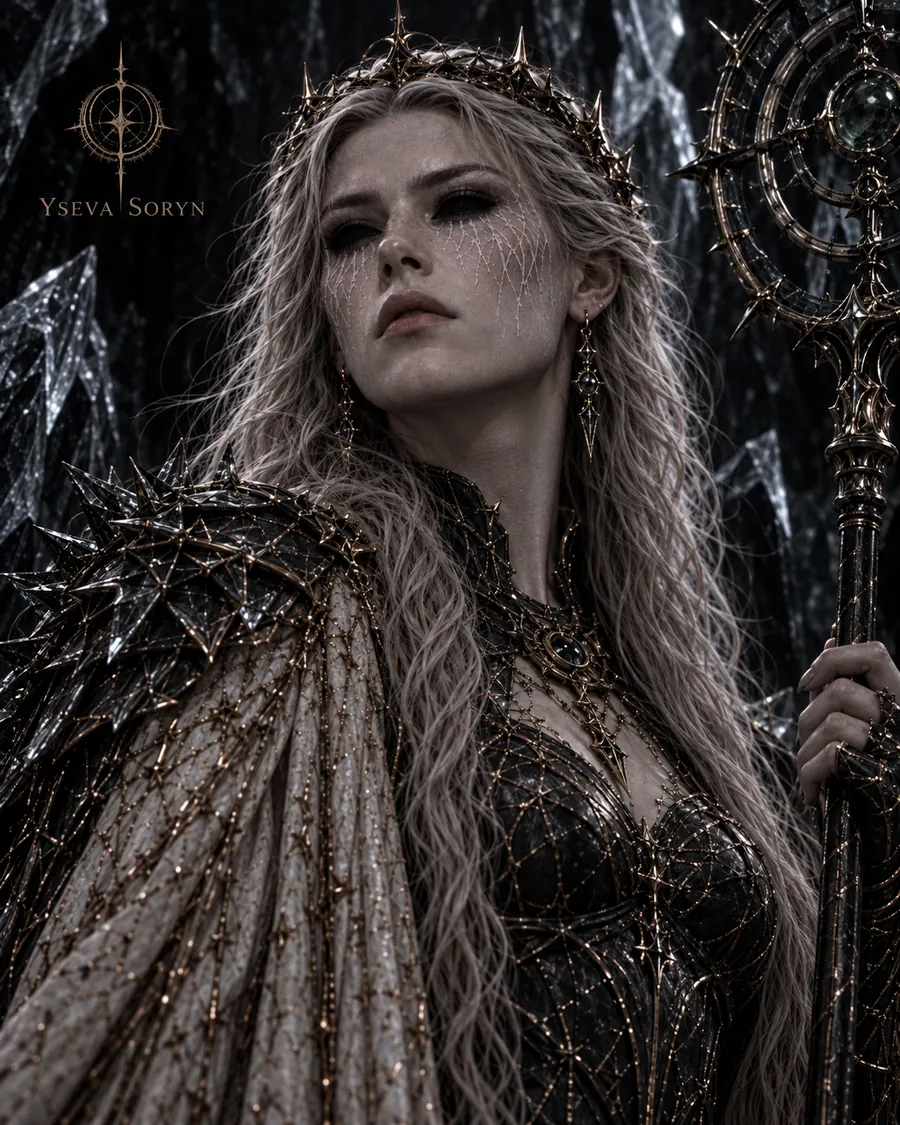
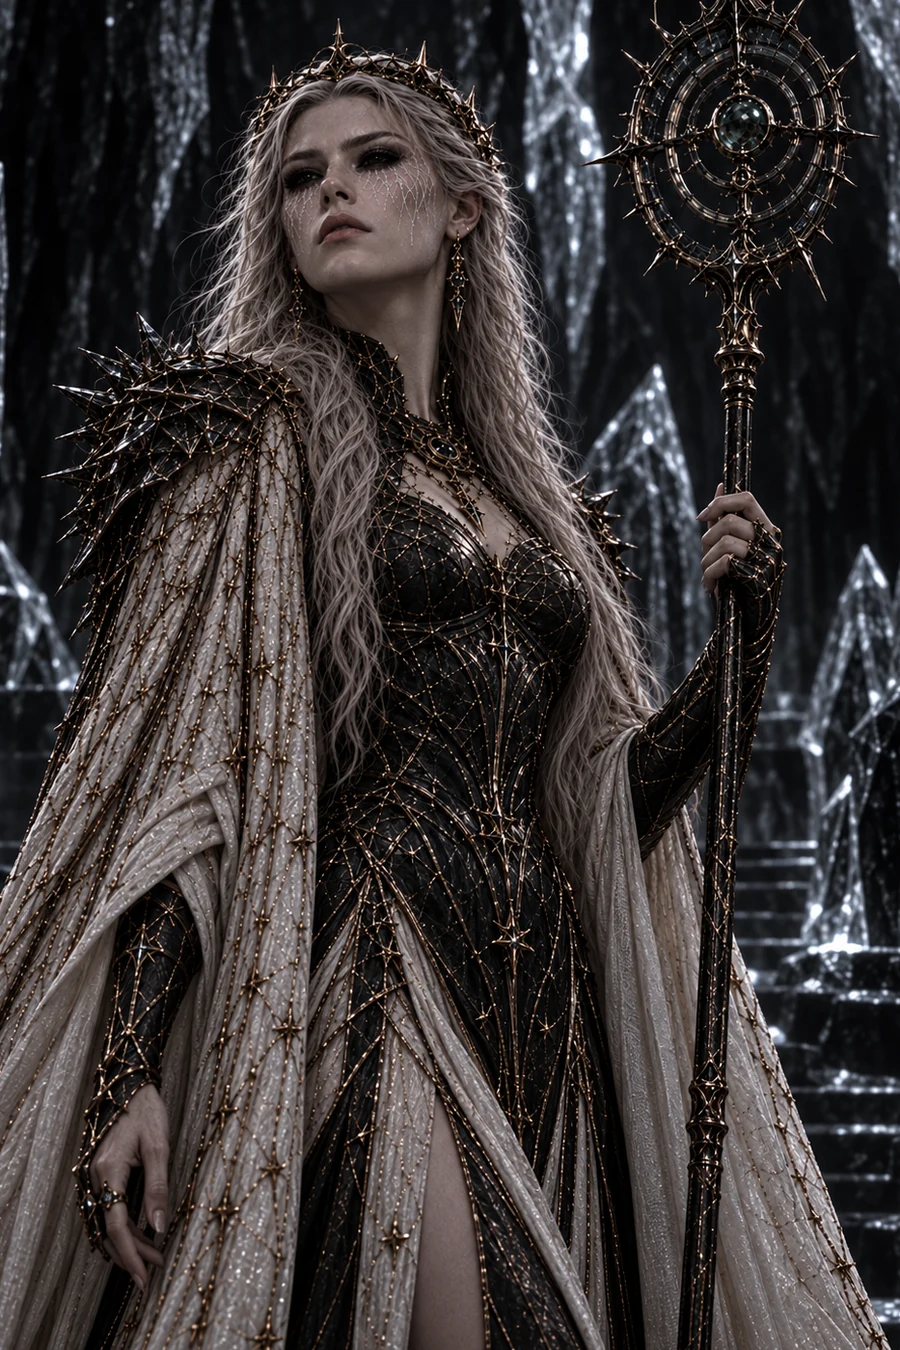
Retratos nuevos de los Soryn
Las tres versiones nuevas, a cuerpo entero y con el mismo encuadre que el resto
(cara al 15% del alto). Identificados comparando con los publicados: el brazo
cicatrizado y el carmesí son Hastir, la corona y la capa clara Aldren, el cetro
Yseva.

Yseva va al 12,5% en vez del 15%: con el encuadre normal se le salía el cetro
del disco astronómico, que es lo que la identifica como La Astrónoma de la
Guerra.

Hastir llegó con los ojos normales; se le aplicó el negro total como a los otros
dos, rellenando solo el interior del contorno ocular para no tocar párpados ni
pestañas.

diff --git a/content.js b/content.js
@@ -38,9 +38,9 @@ window.BOOK_DATA = {
     { id: "daren", name: "Daren de Vries", file: "assets/personajes/daren-de-vries.webp", w: 900, h: 1350, unlock: 1, section: "cam17" },
     { id: "elias", name: "Elías Sevrin", file: "assets/personajes/elias-sevrin.webp", w: 900, h: 1350, unlock: 2, section: "cam17" },
     { id: "zaira", name: "Zaira", file: "assets/personajes/zaira.webp", w: 900, h: 1349, unlock: 20, section: "fulgur" },
-    { id: "aldren", name: "Aldren Soryn", epithet: "El Heredero de la Luna Bélica", file: "assets/personajes/aldren-soryn.webp", w: 900, h: 1195, unlock: 23, section: "eternum" },
-    { id: "yseva", name: "Yseva Soryn", epithet: "La Astrónoma de la Guerra", file: "assets/personajes/yseva-soryn.webp", w: 900, h: 1125, unlock: 31, section: "eternum" },
-    { id: "hastir", name: "Hastir Soryn", epithet: "La Garra Carmesí", file: "assets/personajes/hastir-soryn.webp", w: 900, h: 1174, unlock: 31, section: "eternum" },
+    { id: "aldren", name: "Aldren Soryn", epithet: "El Heredero de la Luna Bélica", file: "assets/personajes/aldren-soryn.webp", w: 900, h: 1350, unlock: 23, section: "eternum" },
+    { id: "yseva", name: "Yseva Soryn", epithet: "La Astrónoma de la Guerra", file: "assets/personajes/yseva-soryn.webp", w: 900, h: 1350, unlock: 31, section: "eternum" },
+    { id: "hastir", name: "Hastir Soryn", epithet: "La Garra Carmesí", file: "assets/personajes/hastir-soryn.webp", w: 900, h: 1350, unlock: 31, section: "eternum" },
     { id: "rask", name: "Rask", file: "assets/personajes/rask.webp", w: 900, h: 1350, unlock: 25, section: "assum" },
     { id: "hal", name: "Hal'Verkan", file: "assets/personajes/hal-verkan.webp", w: 900, h: 1350, unlock: 30, section: "assum" },
     { id: "dravik", name: "Dra'Vik", file: "assets/personajes/dravik.webp", w: 900, h: 1350, unlock: 30, section: "assum" },

diff --git a/sw.js b/sw.js
@@ -1,6 +1,6 @@
 // REGLA (heredada del Libro I): todo cambio a index.html, styles.css, content.js,
 // app.js o nieve.js exige subir SHELL_CACHE antes de publicar.
-const SHELL_CACHE = "el-ciclo-inmovil-libro2-shell-v22";
+const SHELL_CACHE = "el-ciclo-inmovil-libro2-shell-v23";
 // Mismo nombre que AUDIO_CACHE en app.js ("Guardar sin conexión"). Si no
 // coinciden, el activate de abajo borra los capitulos guardados. No subirlo sin
 // motivo: vacia lo que cada oyente guardo.
